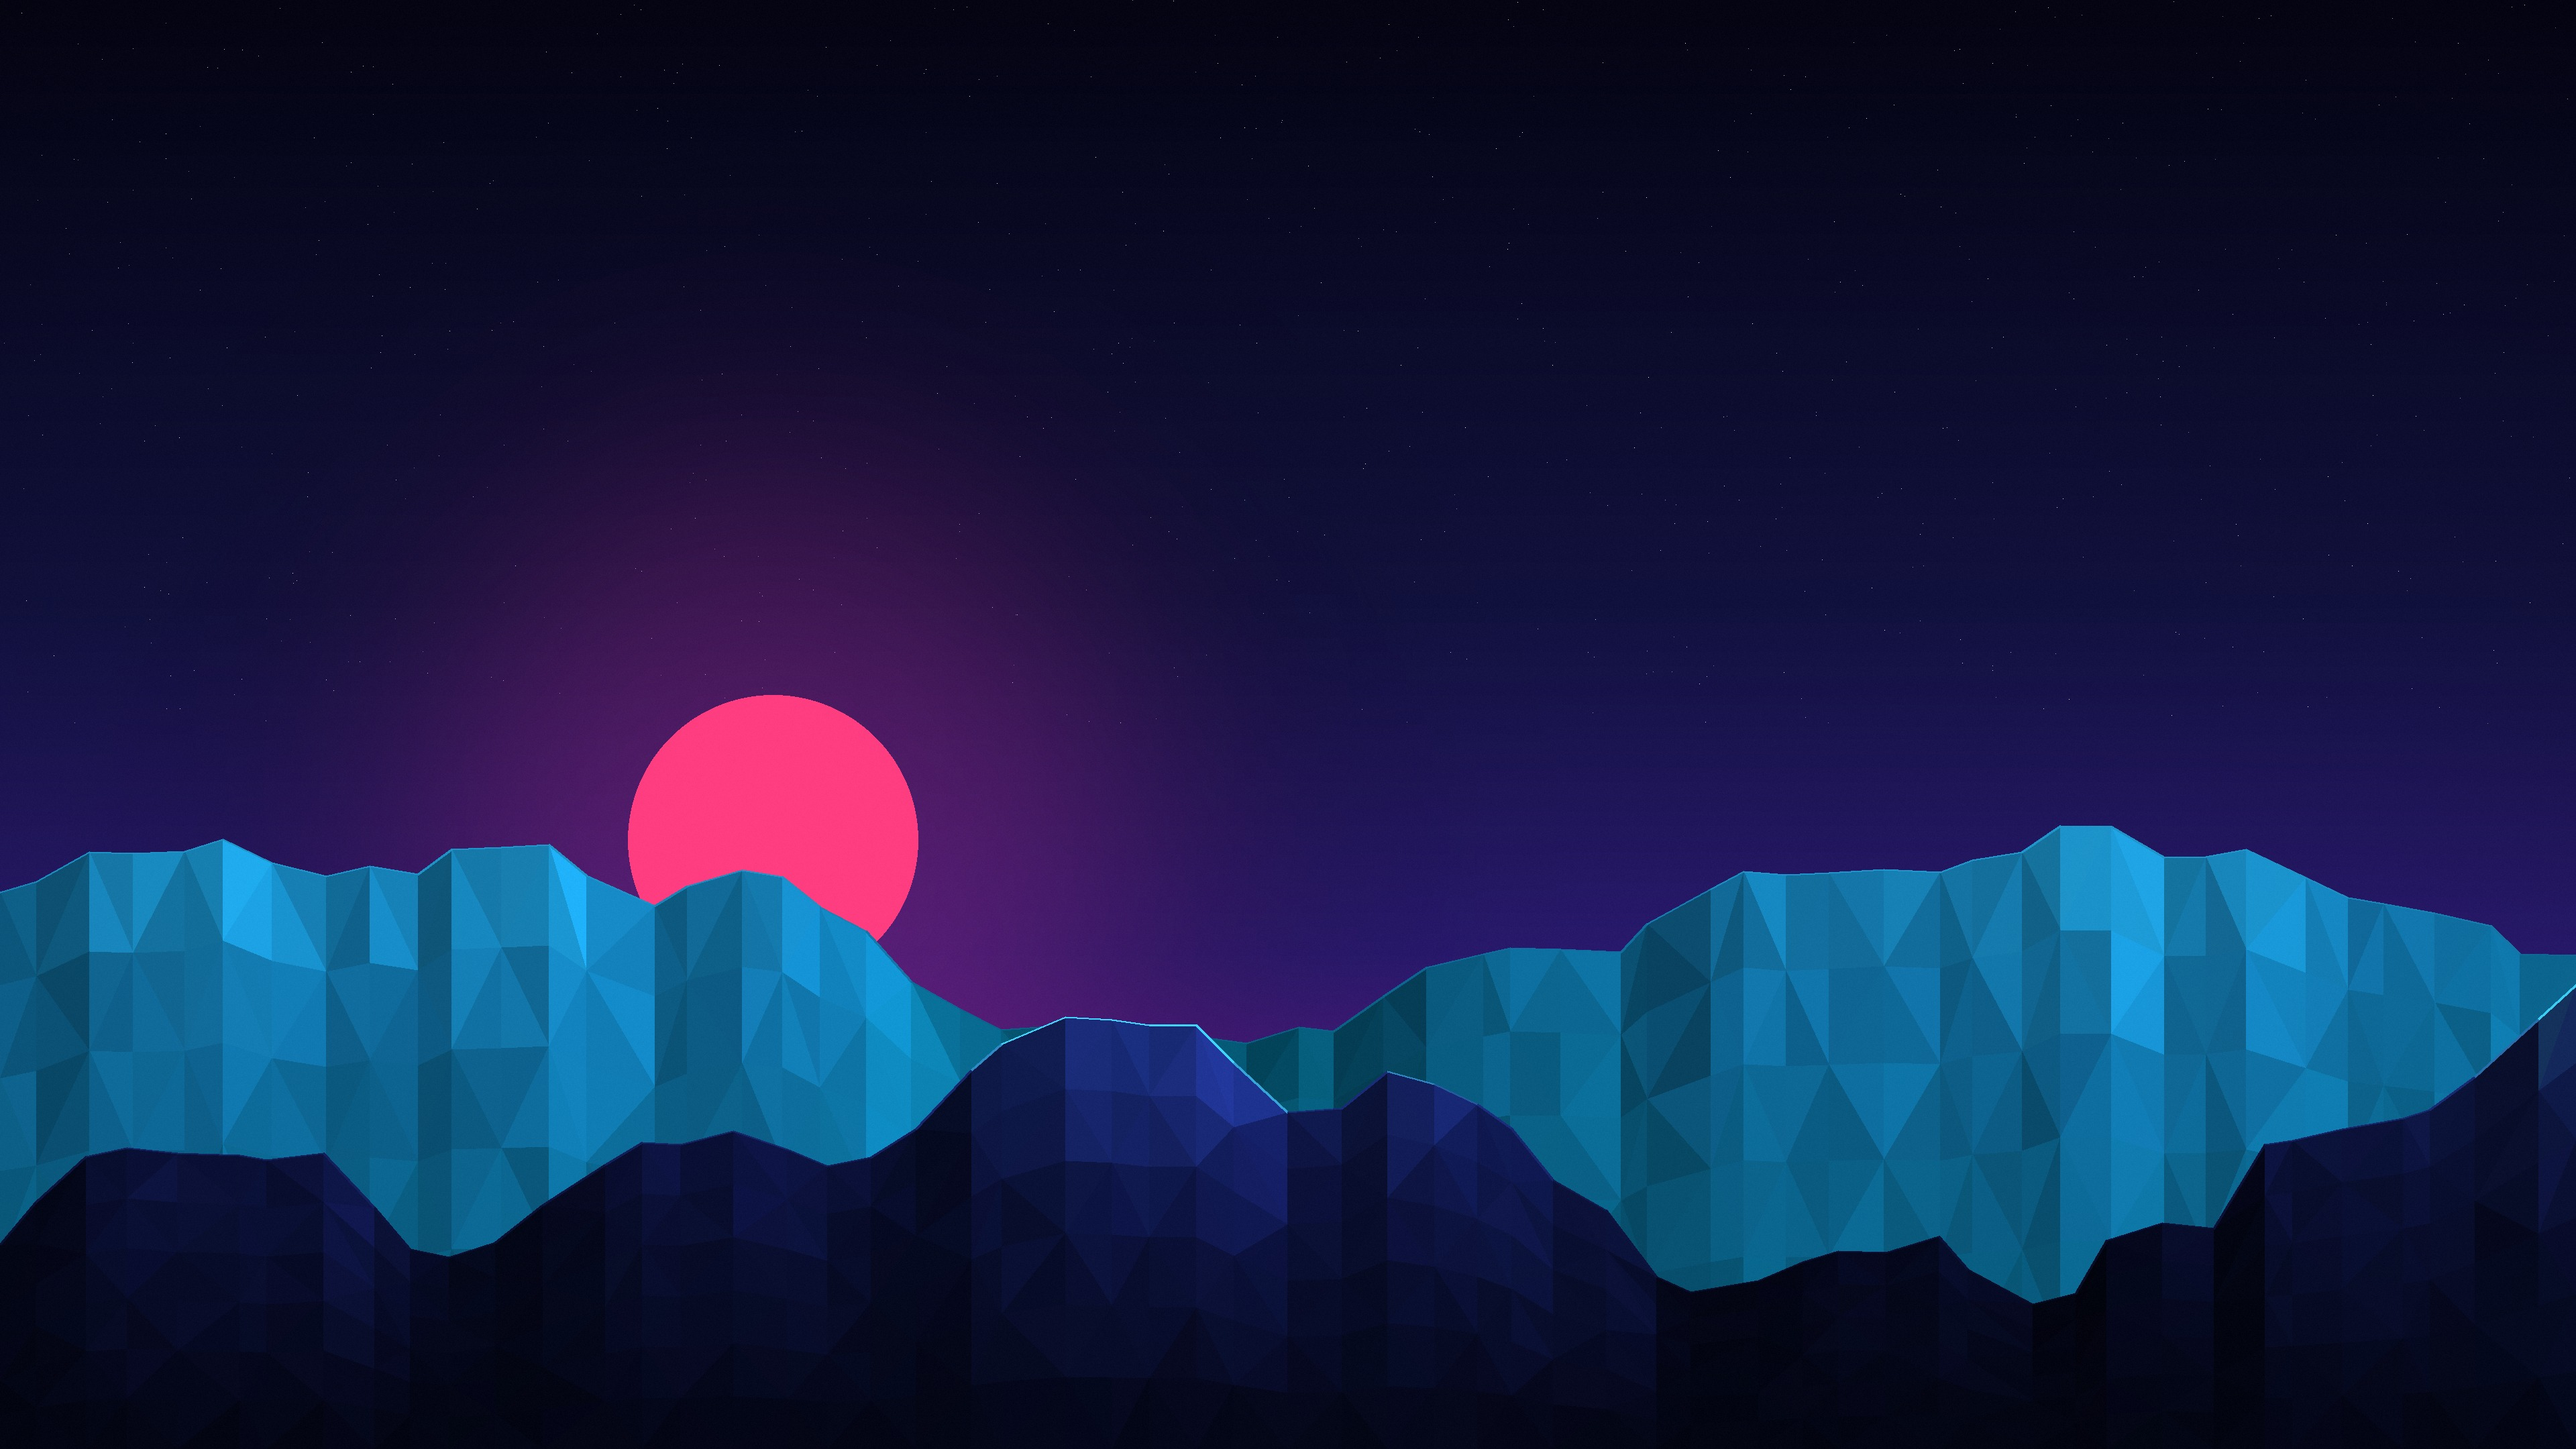
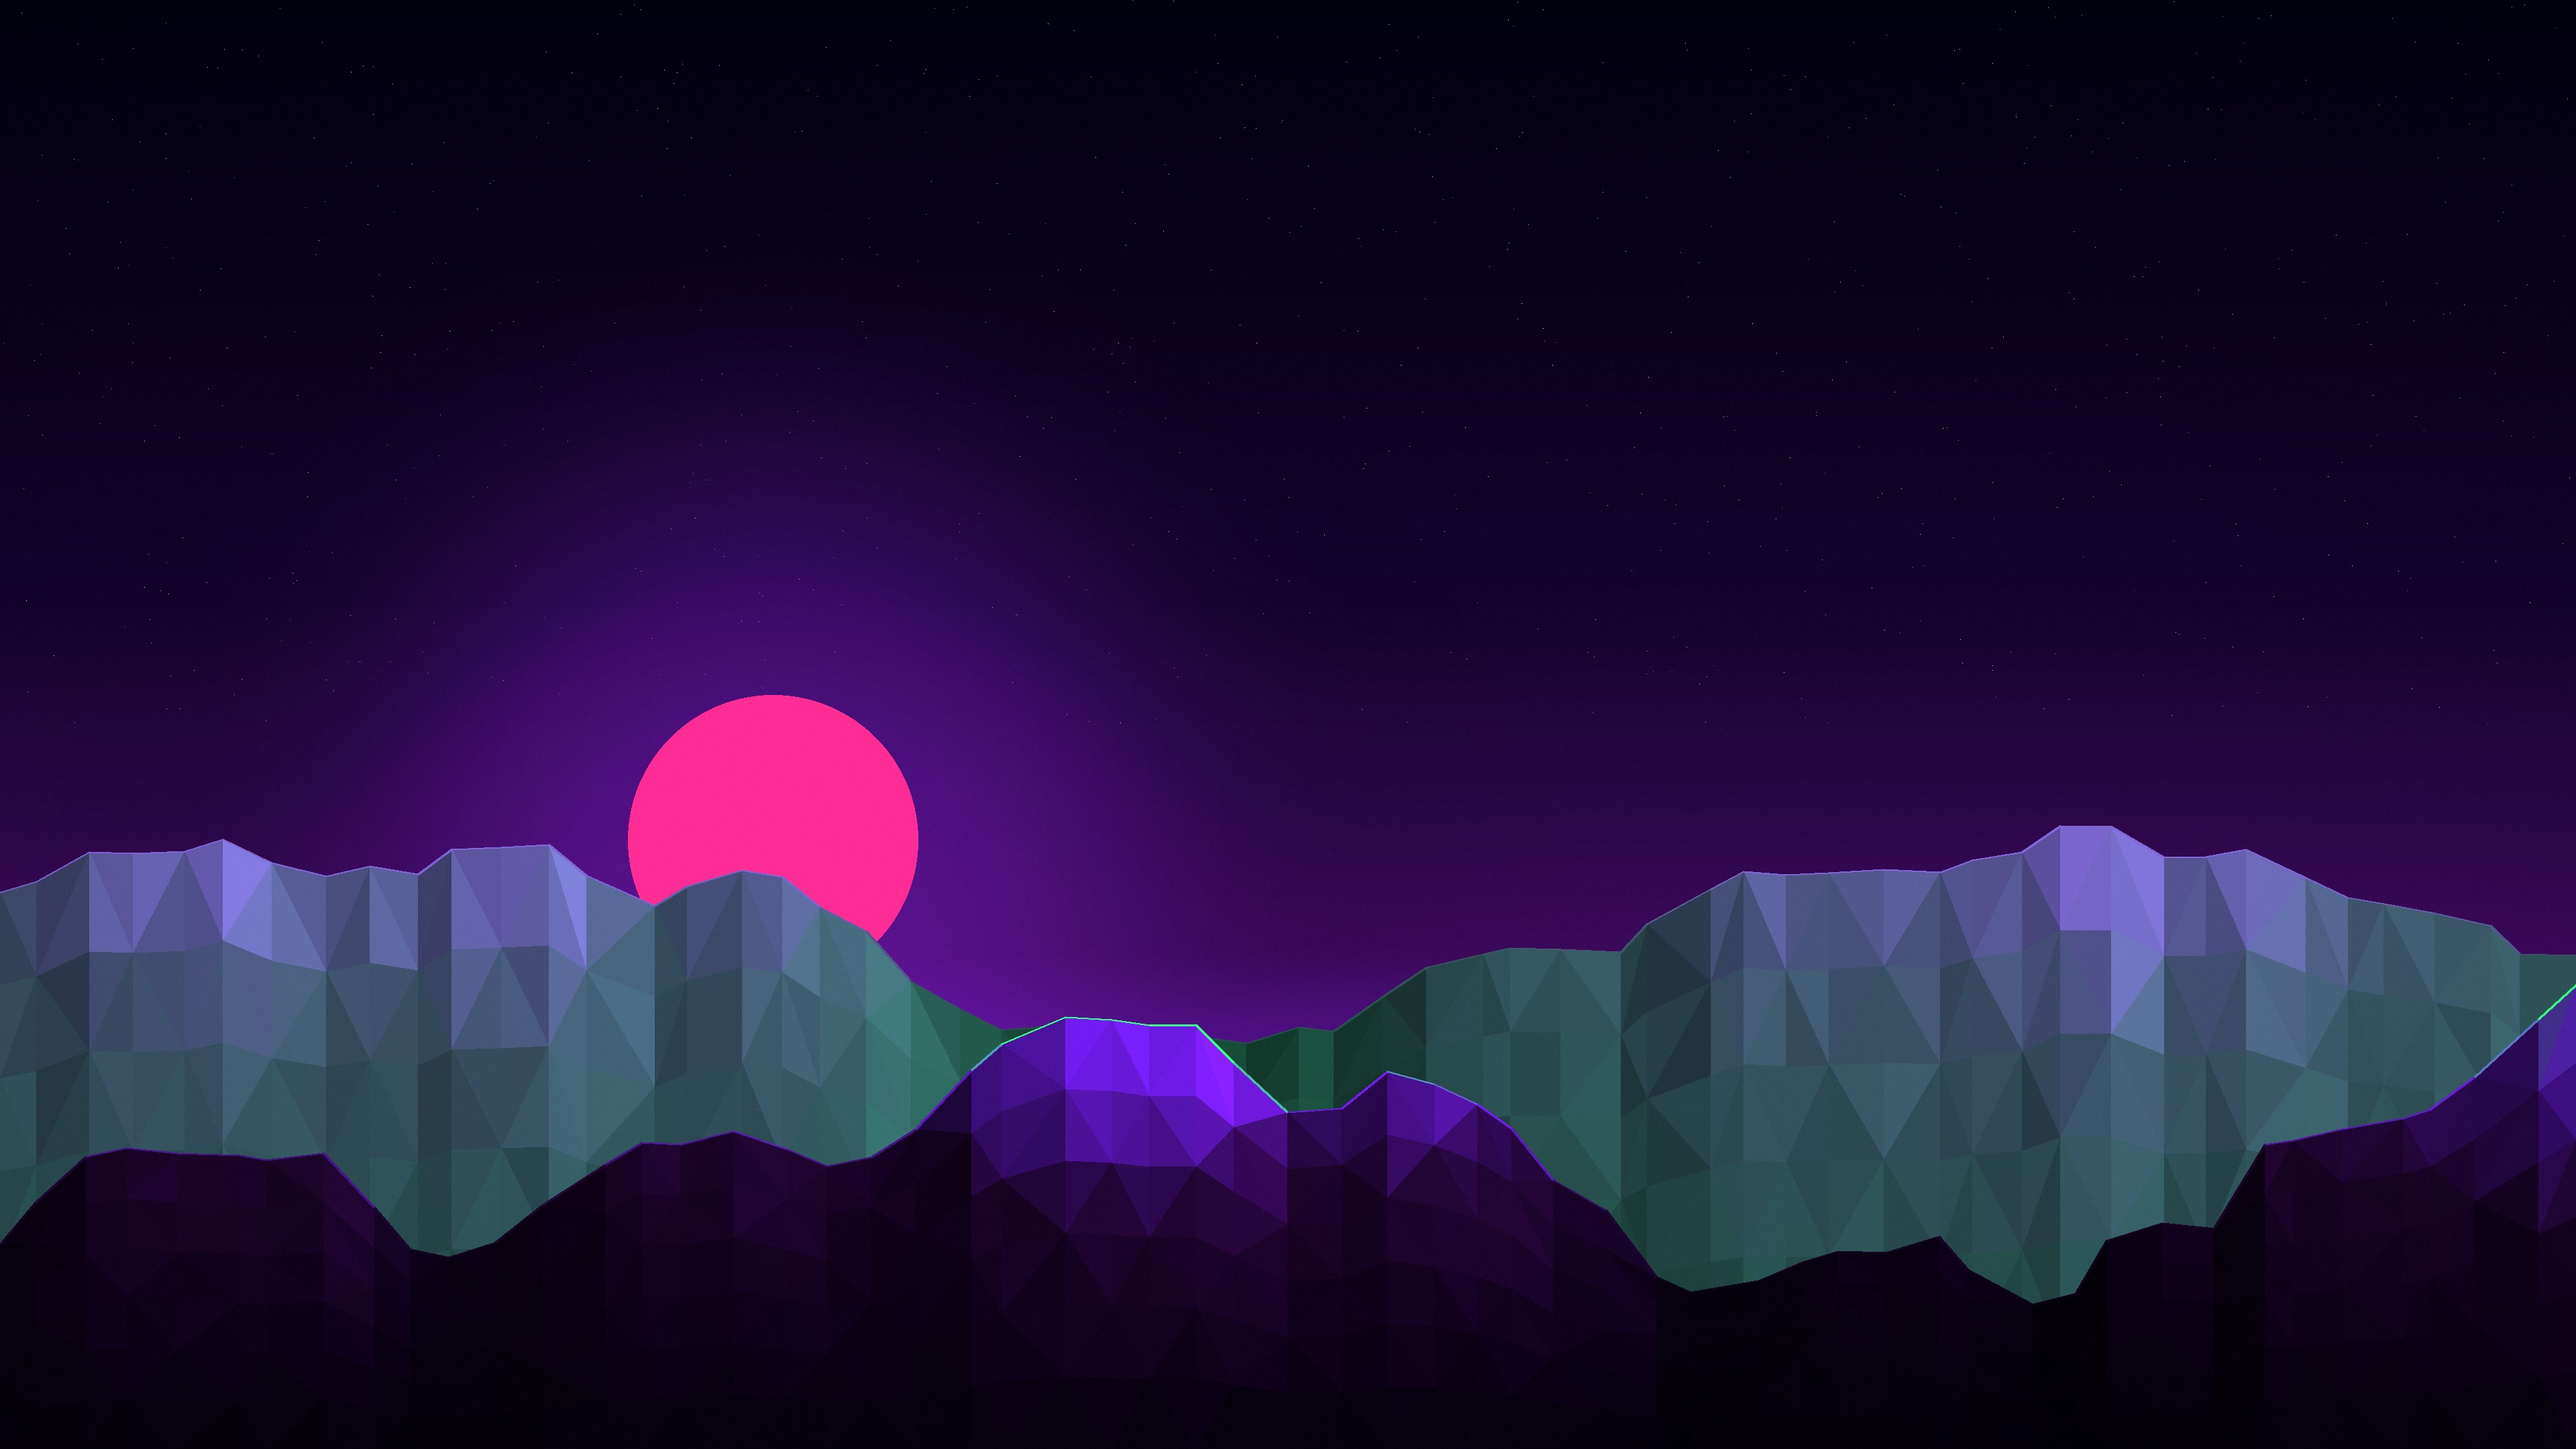
feat(theme): cyberpunk reskin — dark shell theme, sharp facets, neon set
install/08_shell_theme.sh derives ZorinAI-Dark from the installed Zorin
dark shell CSS (no third-party css shipped): clamps measured border radii
(>=10px and 999px pills -> 4px, 5-9px -> 3px; 76 occurrences in the base)
and appends neon overrides — near-black menu panels with fluorescent pink
borders, purple selection, green checks, glowing focus entry. Activated
via the already-enabled user-theme extension. GTK apps move to
ZorinPurple-Dark.

All menu icons replaced with solid white glyphs: agent tiles become white
marks, plus overrides for the stock category icon names
(applications-{development,internet,multimedia,utilities,system}) so the
whole left column matches.

Wallpaper palettes retuned to fluorescent pink/green/purple across
sunset-peaks, neon-rift, crimson-dunes, glacier-facet (aurora-peaks kept).

Fix: module 08 must not call the local 'gs' gsettings helper from module
06 — bare 'gs' resolves to Ghostscript.

Changed region(s): [[0.0, 0.5273, 1.0, 0.8995], [0.25, 0.4343, 0.3438, 0.4963]]

diff --git a/assets/wallpapers/generate-wallpapers.py b/assets/wallpapers/generate-wallpapers.py
@@ -198,43 +198,43 @@ def finish(img, vignette=0.12, grain=0.006):
 # ------------------------------------------------------------------- scenes
 def scene_sunset_peaks(w, h, seed):
     rng = np.random.default_rng(seed)
-    img = sky_gradient(w, h, [(0.0, hex_rgb("1a0b2e")), (0.38, hex_rgb("7a1f6b")),
-                              (0.62, hex_rgb("e0447c")), (0.80, hex_rgb("ff7847")),
-                              (1.0, hex_rgb("ffc247"))])
+    img = sky_gradient(w, h, [(0.0, hex_rgb("0d001a")), (0.36, hex_rgb("3d0a5c")),
+                              (0.60, hex_rgb("7a1fff")), (0.80, hex_rgb("ff2d95")),
+                              (1.0, hex_rgb("ff5fd2"))])
     img = draw_sun(img, w * 0.62, h * 0.60, int(h * 0.13),
-                   hex_rgb("ffd166"), glow_color=hex_rgb("ff9a3d"))
-    horizon = hex_rgb("ffc247")
+                   hex_rgb("ffb3e6"), glow_color=hex_rgb("ff2d95"))
+    horizon = hex_rgb("ff5fd2")
     facet_layer(img, rng, base_y=0.74, amp=0.16, cols=COLS,
                 elev_stops=shift_palette(
-                    [(0.0, hex_rgb("3a1650")), (0.55, hex_rgb("6b2585")),
-                     (1.0, hex_rgb("c94b8e"))], horizon, 0.45))
+                    [(0.0, hex_rgb("2a0a3f")), (0.55, hex_rgb("6b1fc9")),
+                     (1.0, hex_rgb("ff2d95"))], horizon, 0.40))
     facet_layer(img, rng, base_y=0.86, amp=0.20, cols=COLS,
                 elev_stops=shift_palette(
-                    [(0.0, hex_rgb("1c0b2c")), (0.55, hex_rgb("471a63")),
-                     (0.85, hex_rgb("8a2f7a")), (1.0, hex_rgb("e866a8"))],
-                    horizon, 0.18))
+                    [(0.0, hex_rgb("0a0014")), (0.55, hex_rgb("3d0a5c")),
+                     (0.85, hex_rgb("a124ff")), (1.0, hex_rgb("ff5fd2"))],
+                    horizon, 0.15))
     facet_layer(img, rng, base_y=1.04, amp=0.24, cols=COLS,
-                elev_stops=[(0.0, hex_rgb("0d0518")), (0.5, hex_rgb("2a1040")),
-                            (0.8, hex_rgb("5c1f66")), (1.0, hex_rgb("b8427f"))])
+                elev_stops=[(0.0, hex_rgb("05000a")), (0.5, hex_rgb("1f0530")),
+                            (0.8, hex_rgb("7a1fff")), (1.0, hex_rgb("ff2d95"))])
     return finish(img)
 
 
 def scene_neon_rift(w, h, seed):
     rng = np.random.default_rng(seed)
-    img = sky_gradient(w, h, [(0.0, hex_rgb("050514")), (0.42, hex_rgb("12123f")),
-                              (0.66, hex_rgb("2a1a6e")), (0.85, hex_rgb("6a1e8f")),
-                              (1.0, hex_rgb("b8298f"))])
+    img = sky_gradient(w, h, [(0.0, hex_rgb("02010f")), (0.42, hex_rgb("14042e")),
+                              (0.66, hex_rgb("3d0a5c")), (0.85, hex_rgb("8a1fff")),
+                              (1.0, hex_rgb("ff2d95"))])
     img = draw_stars(img, rng, density=90, max_y=0.5)
     img = draw_sun(img, w * 0.30, h * 0.58, int(h * 0.10),
-                   hex_rgb("ff3d81"), glow_color=hex_rgb("b8298f"))
-    cyan = hex_rgb("00e5ff")
+                   hex_rgb("ff2d95"), glow_color=hex_rgb("a124ff"))
+    green = hex_rgb("39ff88")
     facet_layer(img, rng, base_y=0.72, amp=0.15, cols=COLS,
                 elev_stops=shift_palette(
-                    [(0.0, hex_rgb("0a1030")), (0.6, hex_rgb("182a66")),
-                     (1.0, hex_rgb("2f6bb0"))], cyan, 0.35))
+                    [(0.0, hex_rgb("0a0218")), (0.6, hex_rgb("3d0a5c")),
+                     (1.0, hex_rgb("a124ff"))], green, 0.30))
     facet_layer(img, rng, base_y=0.90, amp=0.22, cols=COLS,
-                elev_stops=[(0.0, hex_rgb("040614")), (0.5, hex_rgb("0d1440")),
-                            (0.85, hex_rgb("1c2f80")), (1.0, hex_rgb("3fd6ff"))])
+                elev_stops=[(0.0, hex_rgb("04010a")), (0.5, hex_rgb("1f0530")),
+                            (0.85, hex_rgb("7a1fff")), (1.0, hex_rgb("39ff88"))])
     return finish(img)
 
 
@@ -261,35 +261,35 @@ def scene_aurora_peaks(w, h, seed):
 
 def scene_crimson_dunes(w, h, seed):
     rng = np.random.default_rng(seed)
-    img = sky_gradient(w, h, [(0.0, hex_rgb("14060a")), (0.45, hex_rgb("4a0e1e")),
-                              (0.70, hex_rgb("8f1626")), (0.88, hex_rgb("e03a2f")),
-                              (1.0, hex_rgb("ff7a33"))])
+    img = sky_gradient(w, h, [(0.0, hex_rgb("0f0018")), (0.45, hex_rgb("4a0a3c")),
+                              (0.70, hex_rgb("c02472")), (0.88, hex_rgb("ff2d95")),
+                              (1.0, hex_rgb("ff7ae0"))])
     img = draw_sun(img, w * 0.72, h * 0.66, int(h * 0.09),
-                   hex_rgb("ffe8d6"), glow_color=hex_rgb("ff7a33"))
+                   hex_rgb("ffffff"), glow_color=hex_rgb("ff2d95"))
     facet_layer(img, rng, base_y=0.80, amp=0.10, cols=COLS, light_k=0.35,
                 elev_stops=shift_palette(
-                    [(0.0, hex_rgb("5c1020")), (1.0, hex_rgb("a8322f"))],
-                    hex_rgb("ff7a33"), 0.35))
+                    [(0.0, hex_rgb("3d0a3c")), (1.0, hex_rgb("c02472"))],
+                    hex_rgb("ff2d95"), 0.35))
     facet_layer(img, rng, base_y=0.98, amp=0.16, cols=COLS, light_k=0.35,
-                elev_stops=[(0.0, hex_rgb("1c0508")), (0.6, hex_rgb("4a0f18")),
-                            (1.0, hex_rgb("8f2020"))])
+                elev_stops=[(0.0, hex_rgb("0a0014")), (0.6, hex_rgb("2a0a3f")),
+                            (1.0, hex_rgb("a1246e"))])
     return finish(img, vignette=0.14)
 
 
 def scene_glacier_facet(w, h, seed):
     rng = np.random.default_rng(seed)
-    img = sky_gradient(w, h, [(0.0, hex_rgb("072733")), (0.45, hex_rgb("0e4a5c")),
-                              (0.75, hex_rgb("1a7a8c")), (1.0, hex_rgb("3dbdc9"))])
+    img = sky_gradient(w, h, [(0.0, hex_rgb("0a0118")), (0.45, hex_rgb("2a0a4a")),
+                              (0.75, hex_rgb("5c1fa8")), (1.0, hex_rgb("9a4bff"))])
     img = draw_sun(img, w * 0.40, h * 0.34, int(h * 0.08),
-                   hex_rgb("eafcff"), glow_color=hex_rgb("7adfe8"))
-    ice = hex_rgb("eafcff")
+                   hex_rgb("f2eaff"), glow_color=hex_rgb("a24bff"))
+    ice = hex_rgb("e8d9ff")
     facet_layer(img, rng, base_y=0.74, amp=0.14, cols=COLS,
                 elev_stops=shift_palette(
-                    [(0.0, hex_rgb("0a3a48")), (0.6, hex_rgb("16606e")),
-                     (1.0, hex_rgb("3fa5ad"))], ice, 0.25))
+                    [(0.0, hex_rgb("1a0530")), (0.6, hex_rgb("4a1a8c")),
+                     (1.0, hex_rgb("a24bff"))], ice, 0.25))
     facet_layer(img, rng, base_y=0.96, amp=0.20, cols=COLS,
-                elev_stops=[(0.0, hex_rgb("04202b")), (0.5, hex_rgb("0a4754")),
-                            (0.85, hex_rgb("187a86")), (1.0, hex_rgb("c9f4f7"))])
+                elev_stops=[(0.0, hex_rgb("08010f")), (0.5, hex_rgb("2a0a4a")),
+                            (0.85, hex_rgb("7a3ff2")), (1.0, hex_rgb("e8d9ff"))])
     return finish(img)
 
 
